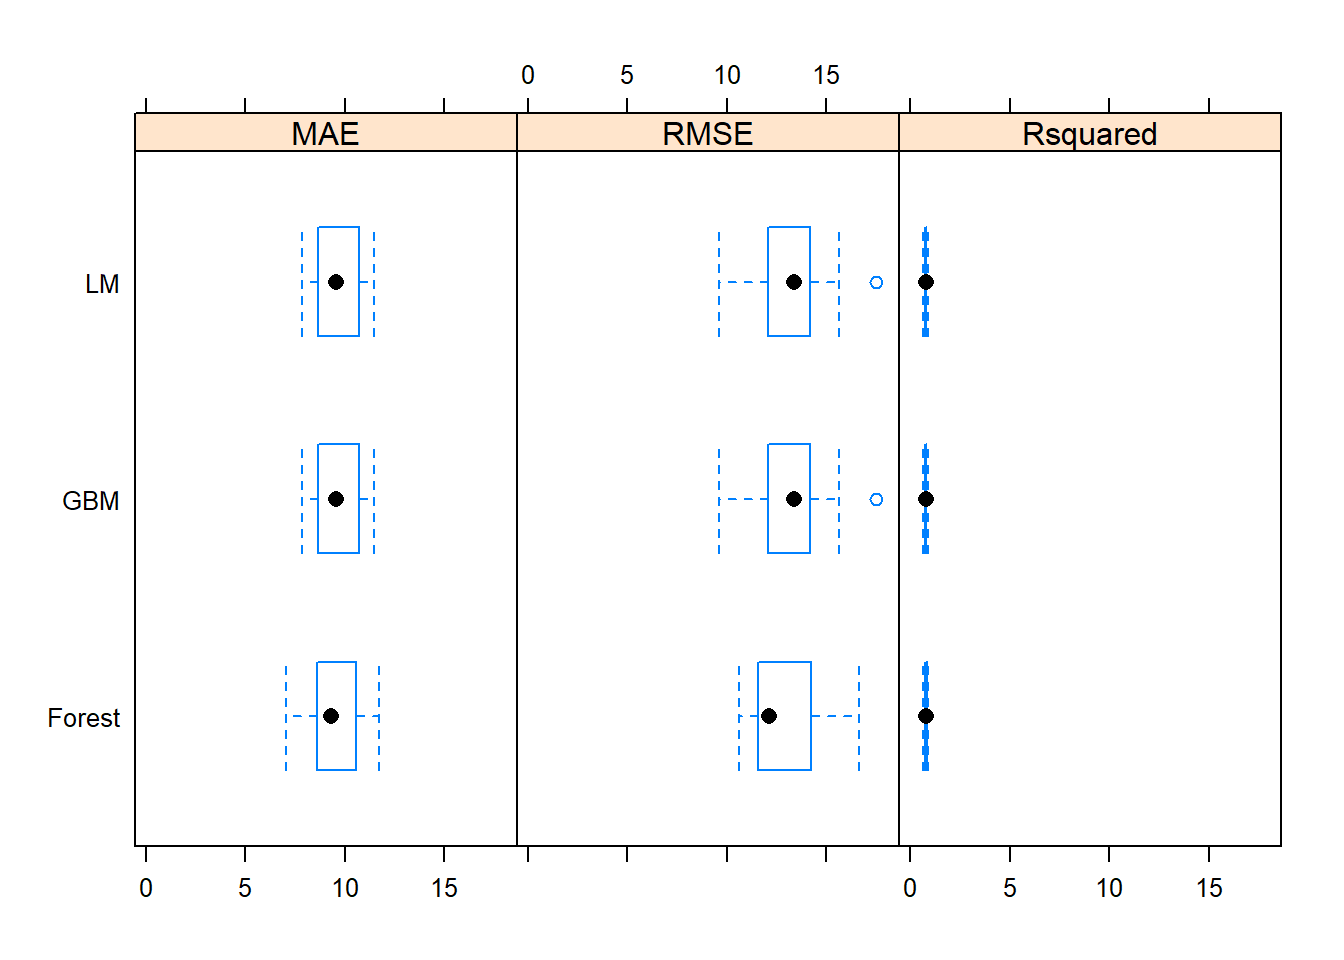
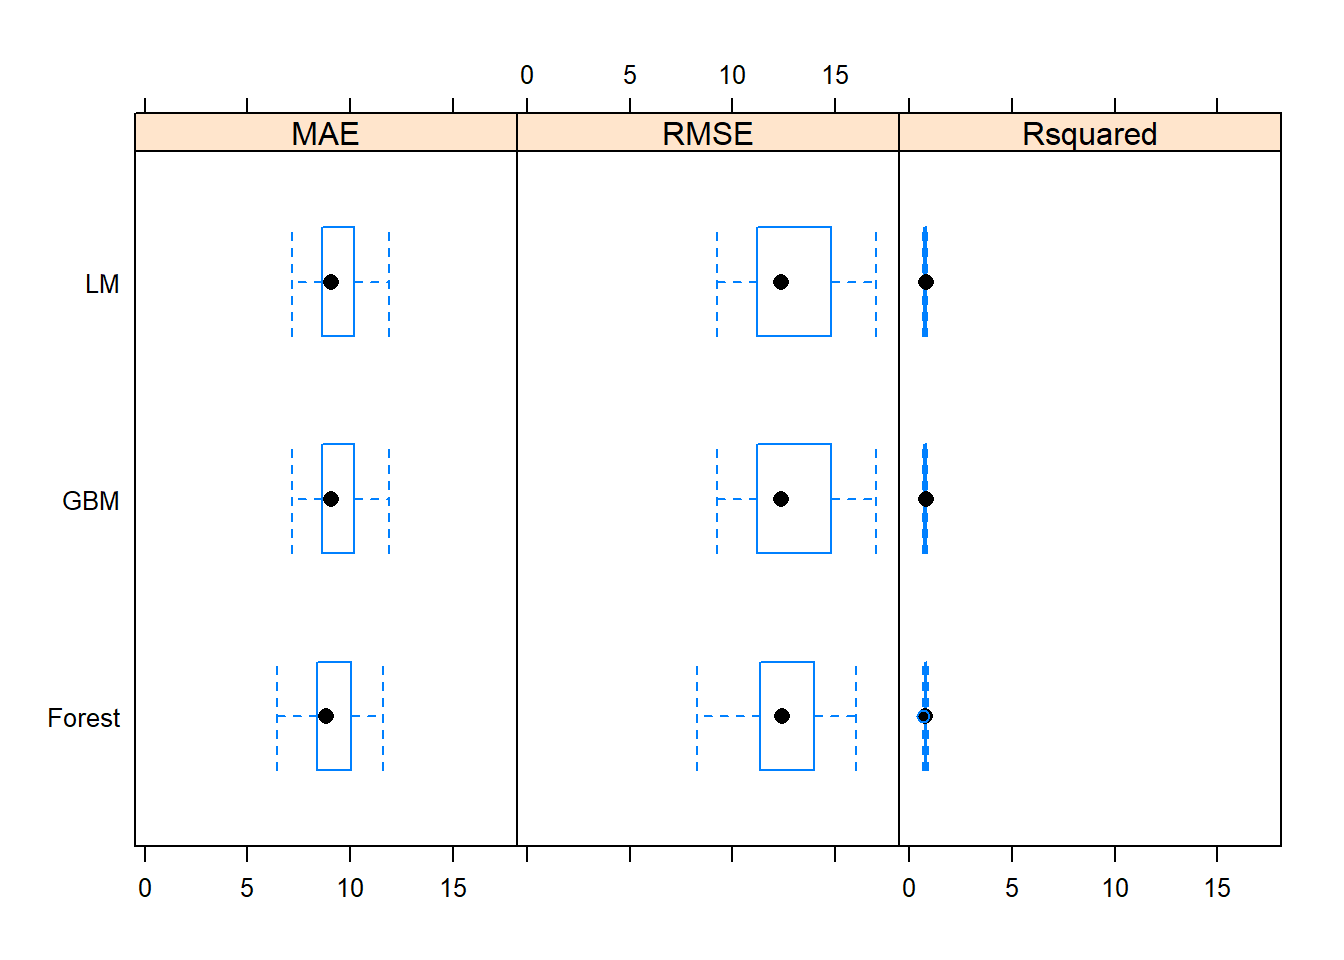
FINAL MANSION

diff --git a/public/post/ageofhouse/index.html b/public/post/ageofhouse/index.html
@@ -48,7 +48,7 @@ The data set is comprised of 506 rows and 14 columns. The variables range from c
 
 <meta itemprop="datePublished" content="2019-04-14T10:58:08-04:00" />
 <meta itemprop="dateModified" content="2019-04-14T10:58:08-04:00" />
-<meta itemprop="wordCount" content="1083">
+<meta itemprop="wordCount" content="1328">
 
 
 
@@ -216,22 +216,22 @@ bwplot(smpl)</code></pre>
 ## Number of resamples: 20 
 ## 
 ## MAE 
-##            Min.  1st Qu.   Median     Mean  3rd Qu.     Max. NA&#39;s
-## Forest 7.061932 8.608173 9.286817 9.456255 10.53941 11.71941    0
-## LM     7.871239 8.695601 9.546433 9.685783 10.69715 11.48884    0
-## GBM    7.871239 8.695601 9.546433 9.685783 10.69715 11.48884    0
+##            Min.  1st Qu.   Median     Mean   3rd Qu.     Max. NA&#39;s
+## Forest 6.414857 8.420224 8.840809 9.108707  9.981752 11.58375    0
+## LM     7.145296 8.649197 9.085303 9.337941 10.115155 11.88021    0
+## GBM    7.145296 8.649197 9.085303 9.337941 10.115155 11.88021    0
 ## 
 ## RMSE 
-##             Min.  1st Qu.   Median     Mean  3rd Qu.     Max. NA&#39;s
-## Forest 10.622008 11.63859 12.10875 12.93618 14.00339 16.65638    0
-## LM      9.613211 12.24608 13.37131 13.16942 14.17239 17.46930    0
-## GBM     9.613211 12.24608 13.37131 13.16942 14.17239 17.46930    0
+##            Min.  1st Qu.   Median     Mean  3rd Qu.     Max. NA&#39;s
+## Forest 8.287707 11.39791 12.43312 12.44734 13.85908 15.99809    0
+## LM     9.251272 11.24877 12.35774 12.80533 14.49662 16.96193    0
+## GBM    9.251272 11.24877 12.35774 12.80533 14.49662 16.96193    0
 ## 
 ## Rsquared 
 ##             Min.   1st Qu.    Median      Mean   3rd Qu.      Max. NA&#39;s
-## Forest 0.6254237 0.7392918 0.7998964 0.7850551 0.8435396 0.8949997    0
-## LM     0.6355844 0.7380345 0.7832894 0.7799452 0.8229546 0.8939904    0
-## GBM    0.6355844 0.7380345 0.7832894 0.7799452 0.8229546 0.8939904    0</code></pre>
+## Forest 0.6752715 0.7852626 0.8022922 0.8082983 0.8427229 0.9244584    0
+## LM     0.6614261 0.7472671 0.8232737 0.7978763 0.8446497 0.9013233    0
+## GBM    0.6614261 0.7472671 0.8232737 0.7978763 0.8446497 0.9013233    0</code></pre>
 <p><br></p>
 <p>We can see above that the Random Forest Model performed the best when looking at the mean RMSE. They were all really close though, which usually isn’t the case.</p>
 <p>So let’s run the models again this time using some preprocesing steps.</p>
@@ -246,8 +246,26 @@ bwplot(smpl)</code></pre>
              method = &quot;ranger&quot;,
              trControl = trainControl(method = &quot;repeatedcv&quot;,
                                       number = 10, repeats = 2),
-             preProcess = c(&quot;center&quot;, &quot;scale&quot;, &quot;pca&quot;))
-modlm &lt;- train(age ~ ., train,
+             preProcess = c(&quot;center&quot;, &quot;scale&quot;, &quot;pca&quot;))</code></pre>
+<pre><code>## Warning: model fit failed for Fold05.Rep1: mtry=10, min.node.size=5, splitrule=variance Error in ranger::ranger(dependent.variable.name = &quot;.outcome&quot;, data = x,  : 
+##   User interrupt or internal error.</code></pre>
+<pre><code>## Warning: model fit failed for Fold05.Rep1: mtry=10, min.node.size=5, splitrule=extratrees Error in ranger::ranger(dependent.variable.name = &quot;.outcome&quot;, data = x,  : 
+##   User interrupt or internal error.</code></pre>
+<pre><code>## Warning: model fit failed for Fold10.Rep1: mtry=10, min.node.size=5, splitrule=variance Error in ranger::ranger(dependent.variable.name = &quot;.outcome&quot;, data = x,  : 
+##   User interrupt or internal error.</code></pre>
+<pre><code>## Warning: model fit failed for Fold10.Rep1: mtry=10, min.node.size=5, splitrule=extratrees Error in ranger::ranger(dependent.variable.name = &quot;.outcome&quot;, data = x,  : 
+##   User interrupt or internal error.</code></pre>
+<pre><code>## Warning: model fit failed for Fold01.Rep2: mtry=10, min.node.size=5, splitrule=variance Error in ranger::ranger(dependent.variable.name = &quot;.outcome&quot;, data = x,  : 
+##   User interrupt or internal error.</code></pre>
+<pre><code>## Warning: model fit failed for Fold01.Rep2: mtry=10, min.node.size=5, splitrule=extratrees Error in ranger::ranger(dependent.variable.name = &quot;.outcome&quot;, data = x,  : 
+##   User interrupt or internal error.</code></pre>
+<pre><code>## Warning: model fit failed for Fold10.Rep2: mtry=10, min.node.size=5, splitrule=variance Error in ranger::ranger(dependent.variable.name = &quot;.outcome&quot;, data = x,  : 
+##   User interrupt or internal error.</code></pre>
+<pre><code>## Warning: model fit failed for Fold10.Rep2: mtry=10, min.node.size=5, splitrule=extratrees Error in ranger::ranger(dependent.variable.name = &quot;.outcome&quot;, data = x,  : 
+##   User interrupt or internal error.</code></pre>
+<pre><code>## Warning in nominalTrainWorkflow(x = x, y = y, wts = weights, info =
+## trainInfo, : There were missing values in resampled performance measures.</code></pre>
+<pre class="r"><code>modlm &lt;- train(age ~ ., train,
              method = &quot;lm&quot;,
              trControl = trainControl(method = &quot;repeatedcv&quot;,
                                       number = 10, repeats = 2),
@@ -274,22 +292,22 @@ bwplot(smpl)</code></pre>
 ## Number of resamples: 20 
 ## 
 ## MAE 
-##            Min.   1st Qu.    Median     Mean  3rd Qu.     Max. NA&#39;s
-## Forest 8.149287  9.115653  9.828052  9.92066 10.83526 11.97281    0
-## LM     8.318909 11.539965 12.556666 12.44978 13.53408 16.64526    0
-## GBM    7.565521  9.180614 10.142710 10.29529 11.21284 16.43143    0
+##            Min.   1st Qu.    Median      Mean  3rd Qu.     Max. NA&#39;s
+## Forest 7.680629  9.228789 10.488586 10.084051 11.06983 11.73962    4
+## LM     9.432702 11.476054 12.994335 12.606761 13.86231 14.95804    0
+## GBM    7.469150  9.417509  9.786168  9.975467 10.85735 12.45839    0
 ## 
 ## RMSE 
 ##             Min.  1st Qu.   Median     Mean  3rd Qu.     Max. NA&#39;s
-## Forest 10.603217 11.87712 13.53832 13.40123 14.41587 18.27227    0
-## LM     11.239028 14.78022 16.55303 16.23950 17.44627 21.52309    0
-## GBM     9.823987 11.61004 13.21419 13.88452 14.93168 22.96576    0
+## Forest  9.450798 11.52952 13.72013 13.22234 14.42655 17.86451    4
+## LM     12.816119 13.91797 16.41526 16.17923 18.01574 20.45931    0
+## GBM     9.676825 12.17686 12.89040 13.61001 15.20207 18.23906    0
 ## 
 ## Rsquared 
 ##             Min.   1st Qu.    Median      Mean   3rd Qu.      Max. NA&#39;s
-## Forest 0.6264813 0.7206410 0.7781562 0.7713592 0.8298419 0.8702178    0
-## LM     0.3724783 0.6168811 0.6534034 0.6585398 0.7137893 0.8341289    0
-## GBM    0.4843325 0.7055010 0.7474173 0.7512118 0.8268621 0.8570538    0</code></pre>
+## Forest 0.6067091 0.7644791 0.7952587 0.7934778 0.8287019 0.8838796    4
+## LM     0.5312258 0.6313185 0.6867887 0.6855850 0.7384793 0.8072988    0
+## GBM    0.5844936 0.7101351 0.8028564 0.7730046 0.8422553 0.8913253    0</code></pre>
 <p><br></p>
 <p>As it turns out the GBM and Forest model significantly outperformed the lm model with a mean RMSE of 12.79 compared to lm’s of 15.</p>
 <p><br></p>
@@ -306,7 +324,7 @@ error &lt;- predrf - test$age
 rmse &lt;- sqrt(mean(error^2))
 
 rmse</code></pre>
-<pre><code>## [1] 13.63614</code></pre>
+<pre><code>## [1] 13.22302</code></pre>
 <p><br></p>
 <p>The model performed slighly worst on the Test set. This is expected.</p>
 <p><br></p>
@@ -319,7 +337,7 @@ errorlm &lt;- predlm - test$age
 rmselm &lt;- sqrt(mean(errorlm^2))
 
 rmselm</code></pre>
-<pre><code>## [1] 17.5307</code></pre>
+<pre><code>## [1] 16.766</code></pre>
 <p><br></p>
 <p>lm model didn’t perform that well. But it looks like the standard is a 2 year increase in RMSE. If my assumption holds the GBM model should perfom at an RMSE of about 15.</p>
 <p><br></p>
@@ -332,9 +350,9 @@ errorgbm &lt;- predgbm - test$age
 rmsegbm &lt;- sqrt(mean(errorgbm^2))
 
 rmsegbm</code></pre>
-<pre><code>## [1] 13.16047</code></pre>
+<pre><code>## [1] 13.27098</code></pre>
 <p><br></p>
-<p>Well there’s a whole lot more we could derive from these models. We could look at the plots and the variable importance as it relates to the models, extract the coefficients from the lm model, etc.</p>
+<p>In conclusion, this method is a great way to compare multiple algorithms to see which performs best given the dataset. Of course there’s a whole lot more information we could derive from these models as the job requires. We could look at the plots and the variable importance, extract the coefficients from the lm model, etc.</p>
 <p>But for tonight – that’s it.</p>
 <p>Thank you for reading.</p>
 <p>cs</p>

diff --git a/content/post/AGEOFHOUSE.html b/content/post/AGEOFHOUSE.html
@@ -80,22 +80,22 @@ bwplot(smpl)</code></pre>
 ## Number of resamples: 20 
 ## 
 ## MAE 
-##            Min.  1st Qu.   Median     Mean  3rd Qu.     Max. NA&#39;s
-## Forest 7.061932 8.608173 9.286817 9.456255 10.53941 11.71941    0
-## LM     7.871239 8.695601 9.546433 9.685783 10.69715 11.48884    0
-## GBM    7.871239 8.695601 9.546433 9.685783 10.69715 11.48884    0
+##            Min.  1st Qu.   Median     Mean   3rd Qu.     Max. NA&#39;s
+## Forest 6.414857 8.420224 8.840809 9.108707  9.981752 11.58375    0
+## LM     7.145296 8.649197 9.085303 9.337941 10.115155 11.88021    0
+## GBM    7.145296 8.649197 9.085303 9.337941 10.115155 11.88021    0
 ## 
 ## RMSE 
-##             Min.  1st Qu.   Median     Mean  3rd Qu.     Max. NA&#39;s
-## Forest 10.622008 11.63859 12.10875 12.93618 14.00339 16.65638    0
-## LM      9.613211 12.24608 13.37131 13.16942 14.17239 17.46930    0
-## GBM     9.613211 12.24608 13.37131 13.16942 14.17239 17.46930    0
+##            Min.  1st Qu.   Median     Mean  3rd Qu.     Max. NA&#39;s
+## Forest 8.287707 11.39791 12.43312 12.44734 13.85908 15.99809    0
+## LM     9.251272 11.24877 12.35774 12.80533 14.49662 16.96193    0
+## GBM    9.251272 11.24877 12.35774 12.80533 14.49662 16.96193    0
 ## 
 ## Rsquared 
 ##             Min.   1st Qu.    Median      Mean   3rd Qu.      Max. NA&#39;s
-## Forest 0.6254237 0.7392918 0.7998964 0.7850551 0.8435396 0.8949997    0
-## LM     0.6355844 0.7380345 0.7832894 0.7799452 0.8229546 0.8939904    0
-## GBM    0.6355844 0.7380345 0.7832894 0.7799452 0.8229546 0.8939904    0</code></pre>
+## Forest 0.6752715 0.7852626 0.8022922 0.8082983 0.8427229 0.9244584    0
+## LM     0.6614261 0.7472671 0.8232737 0.7978763 0.8446497 0.9013233    0
+## GBM    0.6614261 0.7472671 0.8232737 0.7978763 0.8446497 0.9013233    0</code></pre>
 <p><br></p>
 <p>We can see above that the Random Forest Model performed the best when looking at the mean RMSE. They were all really close though, which usually isn’t the case.</p>
 <p>So let’s run the models again this time using some preprocesing steps.</p>
@@ -110,8 +110,26 @@ bwplot(smpl)</code></pre>
              method = &quot;ranger&quot;,
              trControl = trainControl(method = &quot;repeatedcv&quot;,
                                       number = 10, repeats = 2),
-             preProcess = c(&quot;center&quot;, &quot;scale&quot;, &quot;pca&quot;))
-modlm &lt;- train(age ~ ., train,
+             preProcess = c(&quot;center&quot;, &quot;scale&quot;, &quot;pca&quot;))</code></pre>
+<pre><code>## Warning: model fit failed for Fold05.Rep1: mtry=10, min.node.size=5, splitrule=variance Error in ranger::ranger(dependent.variable.name = &quot;.outcome&quot;, data = x,  : 
+##   User interrupt or internal error.</code></pre>
+<pre><code>## Warning: model fit failed for Fold05.Rep1: mtry=10, min.node.size=5, splitrule=extratrees Error in ranger::ranger(dependent.variable.name = &quot;.outcome&quot;, data = x,  : 
+##   User interrupt or internal error.</code></pre>
+<pre><code>## Warning: model fit failed for Fold10.Rep1: mtry=10, min.node.size=5, splitrule=variance Error in ranger::ranger(dependent.variable.name = &quot;.outcome&quot;, data = x,  : 
+##   User interrupt or internal error.</code></pre>
+<pre><code>## Warning: model fit failed for Fold10.Rep1: mtry=10, min.node.size=5, splitrule=extratrees Error in ranger::ranger(dependent.variable.name = &quot;.outcome&quot;, data = x,  : 
+##   User interrupt or internal error.</code></pre>
+<pre><code>## Warning: model fit failed for Fold01.Rep2: mtry=10, min.node.size=5, splitrule=variance Error in ranger::ranger(dependent.variable.name = &quot;.outcome&quot;, data = x,  : 
+##   User interrupt or internal error.</code></pre>
+<pre><code>## Warning: model fit failed for Fold01.Rep2: mtry=10, min.node.size=5, splitrule=extratrees Error in ranger::ranger(dependent.variable.name = &quot;.outcome&quot;, data = x,  : 
+##   User interrupt or internal error.</code></pre>
+<pre><code>## Warning: model fit failed for Fold10.Rep2: mtry=10, min.node.size=5, splitrule=variance Error in ranger::ranger(dependent.variable.name = &quot;.outcome&quot;, data = x,  : 
+##   User interrupt or internal error.</code></pre>
+<pre><code>## Warning: model fit failed for Fold10.Rep2: mtry=10, min.node.size=5, splitrule=extratrees Error in ranger::ranger(dependent.variable.name = &quot;.outcome&quot;, data = x,  : 
+##   User interrupt or internal error.</code></pre>
+<pre><code>## Warning in nominalTrainWorkflow(x = x, y = y, wts = weights, info =
+## trainInfo, : There were missing values in resampled performance measures.</code></pre>
+<pre class="r"><code>modlm &lt;- train(age ~ ., train,
              method = &quot;lm&quot;,
              trControl = trainControl(method = &quot;repeatedcv&quot;,
                                       number = 10, repeats = 2),
@@ -138,22 +156,22 @@ bwplot(smpl)</code></pre>
 ## Number of resamples: 20 
 ## 
 ## MAE 
-##            Min.   1st Qu.    Median     Mean  3rd Qu.     Max. NA&#39;s
-## Forest 8.149287  9.115653  9.828052  9.92066 10.83526 11.97281    0
-## LM     8.318909 11.539965 12.556666 12.44978 13.53408 16.64526    0
-## GBM    7.565521  9.180614 10.142710 10.29529 11.21284 16.43143    0
+##            Min.   1st Qu.    Median      Mean  3rd Qu.     Max. NA&#39;s
+## Forest 7.680629  9.228789 10.488586 10.084051 11.06983 11.73962    4
+## LM     9.432702 11.476054 12.994335 12.606761 13.86231 14.95804    0
+## GBM    7.469150  9.417509  9.786168  9.975467 10.85735 12.45839    0
 ## 
 ## RMSE 
 ##             Min.  1st Qu.   Median     Mean  3rd Qu.     Max. NA&#39;s
-## Forest 10.603217 11.87712 13.53832 13.40123 14.41587 18.27227    0
-## LM     11.239028 14.78022 16.55303 16.23950 17.44627 21.52309    0
-## GBM     9.823987 11.61004 13.21419 13.88452 14.93168 22.96576    0
+## Forest  9.450798 11.52952 13.72013 13.22234 14.42655 17.86451    4
+## LM     12.816119 13.91797 16.41526 16.17923 18.01574 20.45931    0
+## GBM     9.676825 12.17686 12.89040 13.61001 15.20207 18.23906    0
 ## 
 ## Rsquared 
 ##             Min.   1st Qu.    Median      Mean   3rd Qu.      Max. NA&#39;s
-## Forest 0.6264813 0.7206410 0.7781562 0.7713592 0.8298419 0.8702178    0
-## LM     0.3724783 0.6168811 0.6534034 0.6585398 0.7137893 0.8341289    0
-## GBM    0.4843325 0.7055010 0.7474173 0.7512118 0.8268621 0.8570538    0</code></pre>
+## Forest 0.6067091 0.7644791 0.7952587 0.7934778 0.8287019 0.8838796    4
+## LM     0.5312258 0.6313185 0.6867887 0.6855850 0.7384793 0.8072988    0
+## GBM    0.5844936 0.7101351 0.8028564 0.7730046 0.8422553 0.8913253    0</code></pre>
 <p><br></p>
 <p>As it turns out the GBM and Forest model significantly outperformed the lm model with a mean RMSE of 12.79 compared to lm’s of 15.</p>
 <p><br></p>
@@ -170,7 +188,7 @@ error &lt;- predrf - test$age
 rmse &lt;- sqrt(mean(error^2))
 
 rmse</code></pre>
-<pre><code>## [1] 13.63614</code></pre>
+<pre><code>## [1] 13.22302</code></pre>
 <p><br></p>
 <p>The model performed slighly worst on the Test set. This is expected.</p>
 <p><br></p>
@@ -183,7 +201,7 @@ errorlm &lt;- predlm - test$age
 rmselm &lt;- sqrt(mean(errorlm^2))
 
 rmselm</code></pre>
-<pre><code>## [1] 17.5307</code></pre>
+<pre><code>## [1] 16.766</code></pre>
 <p><br></p>
 <p>lm model didn’t perform that well. But it looks like the standard is a 2 year increase in RMSE. If my assumption holds the GBM model should perfom at an RMSE of about 15.</p>
 <p><br></p>
@@ -196,9 +214,9 @@ errorgbm &lt;- predgbm - test$age
 rmsegbm &lt;- sqrt(mean(errorgbm^2))
 
 rmsegbm</code></pre>
-<pre><code>## [1] 13.16047</code></pre>
+<pre><code>## [1] 13.27098</code></pre>
 <p><br></p>
-<p>Well there’s a whole lot more we could derive from these models. We could look at the plots and the variable importance as it relates to the models, extract the coefficients from the lm model, etc.</p>
+<p>In conclusion, this method is a great way to compare multiple algorithms to see which performs best given the dataset. Of course there’s a whole lot more information we could derive from these models as the job requires. We could look at the plots and the variable importance, extract the coefficients from the lm model, etc.</p>
 <p>But for tonight – that’s it.</p>
 <p>Thank you for reading.</p>
 <p>cs</p>

diff --git a/public/post/Keras_CTG/script/index.html b/public/post/Keras_CTG/script/index.html
@@ -391,11 +391,11 @@ head(tbl, 10)</code></pre>
     <ul class="pa0 list">
 	   
 	     <li  class="mb2">
-          <a href="/post/randomforest/rfscript/">Complete Review of the Random Forest Package</a>
+          <a href="/post/glmnet/glmnet/">What?  Hypertune Using glmnet and Caret by Max Kuhn?  Pass it along.</a>
         </li>
 	    
 	     <li  class="mb2">
-          <a href="/post/glmnet/glmnet/">What?  Hypertune Using glmnet and Caret by Max Kuhn?  Pass it along.</a>
+          <a href="/post/randomforest/rfscript/">Complete Review of the Random Forest Package</a>
         </li>
 	    
 	     <li  class="mb2">
@@ -407,11 +407,11 @@ head(tbl, 10)</code></pre>
         </li>
 	    
 	     <li  class="mb2">
-          <a href="/post/kmeans/kmeans/">Can the k means algorithm correctly identify a flower by its petal length and width alone?</a>
+          <a href="/post/weather_post/mkdown/">How many sunny days are followed by cloudy days in Seattle on any given year?</a>
         </li>
 	    
 	     <li  class="mb2">
-          <a href="/post/weather_post/mkdown/">How many sunny days are followed by cloudy days in Seattle on any given year?</a>
+          <a href="/post/kmeans/kmeans/">Can the k means algorithm correctly identify a flower by its petal length and width alone?</a>
         </li>
 	    
 	     <li  class="mb2">

diff --git a/public/post/ROC/roc/index.html b/public/post/ROC/roc/index.html
@@ -312,11 +312,11 @@ model2</code></pre>
     <ul class="pa0 list">
 	   
 	     <li  class="mb2">
-          <a href="/post/randomforest/rfscript/">Complete Review of the Random Forest Package</a>
+          <a href="/post/glmnet/glmnet/">What?  Hypertune Using glmnet and Caret by Max Kuhn?  Pass it along.</a>
         </li>
 	    
 	     <li  class="mb2">
-          <a href="/post/glmnet/glmnet/">What?  Hypertune Using glmnet and Caret by Max Kuhn?  Pass it along.</a>
+          <a href="/post/randomforest/rfscript/">Complete Review of the Random Forest Package</a>
         </li>
 	    
 	     <li  class="mb2">
@@ -324,11 +324,11 @@ model2</code></pre>
         </li>
 	    
 	     <li  class="mb2">
-          <a href="/post/kmeans/kmeans/">Can the k means algorithm correctly identify a flower by its petal length and width alone?</a>
+          <a href="/post/weather_post/mkdown/">How many sunny days are followed by cloudy days in Seattle on any given year?</a>
         </li>
 	    
 	     <li  class="mb2">
-          <a href="/post/weather_post/mkdown/">How many sunny days are followed by cloudy days in Seattle on any given year?</a>
+          <a href="/post/kmeans/kmeans/">Can the k means algorithm correctly identify a flower by its petal length and width alone?</a>
         </li>
 	    
 	     <li  class="mb2">

diff --git a/public/post/Eno_Hammock/test/index.html b/public/post/Eno_Hammock/test/index.html
@@ -435,11 +435,11 @@ wordcloud(sort_two2$bitoken2, sort_two2$Freq, random.order = F, scale = c(2,0.35
     <ul class="pa0 list">
 	   
 	     <li  class="mb2">
-          <a href="/post/cloudy_nights/cloudy_nights_scrape/">Analytics on Classified Section of Cloudy Nights (5,546 ads)</a>
+          <a href="/post/easter_sermon/tim/">Easter Sermon Sentiment Analysis</a>
         </li>
 	    
 	     <li  class="mb2">
-          <a href="/post/easter_sermon/tim/">Easter Sermon Sentiment Analysis</a>
+          <a href="/post/cloudy_nights/cloudy_nights_scrape/">Analytics on Classified Section of Cloudy Nights (5,546 ads)</a>
         </li>
 	    
 	     <li  class="mb2">

diff --git a/public/post/Diamonds_df/diamonds_cut/index.html b/public/post/Diamonds_df/diamonds_cut/index.html
@@ -306,11 +306,11 @@ confusionMatrix(pred, datatest$binary)</code></pre>
         </li>
 	    
 	     <li  class="mb2">
-          <a href="/post/glmnet/glmnet/">What?  Hypertune Using glmnet and Caret by Max Kuhn?  Pass it along.</a>
+          <a href="/post/randomforest/rfscript/">Complete Review of the Random Forest Package</a>
         </li>
 	    
 	     <li  class="mb2">
-          <a href="/post/randomforest/rfscript/">Complete Review of the Random Forest Package</a>
+          <a href="/post/glmnet/glmnet/">What?  Hypertune Using glmnet and Caret by Max Kuhn?  Pass it along.</a>
         </li>
 	    
 	     <li  class="mb2">

diff --git a/public/post/mnist/script/index.html b/public/post/mnist/script/index.html
@@ -351,11 +351,11 @@ sum(predictions != actual)</code></pre>
     <ul class="pa0 list">
 	   
 	     <li  class="mb2">
-          <a href="/post/glmnet/glmnet/">What?  Hypertune Using glmnet and Caret by Max Kuhn?  Pass it along.</a>
+          <a href="/post/randomforest/rfscript/">Complete Review of the Random Forest Package</a>
         </li>
 	    
 	     <li  class="mb2">
-          <a href="/post/randomforest/rfscript/">Complete Review of the Random Forest Package</a>
+          <a href="/post/glmnet/glmnet/">What?  Hypertune Using glmnet and Caret by Max Kuhn?  Pass it along.</a>
         </li>
 	    
 	     <li  class="mb2">

diff --git a/public/post/PCI/pci_analysis/index.html b/public/post/PCI/pci_analysis/index.html
@@ -451,11 +451,11 @@ tab1</code></pre>
         </li>
 	    
 	     <li  class="mb2">
-          <a href="/post/glmnet/glmnet/">What?  Hypertune Using glmnet and Caret by Max Kuhn?  Pass it along.</a>
+          <a href="/post/randomforest/rfscript/">Complete Review of the Random Forest Package</a>
         </li>
 	    
 	     <li  class="mb2">
-          <a href="/post/randomforest/rfscript/">Complete Review of the Random Forest Package</a>
+          <a href="/post/glmnet/glmnet/">What?  Hypertune Using glmnet and Caret by Max Kuhn?  Pass it along.</a>
         </li>
 	    
 	     <li  class="mb2">

diff --git a/public/post/naivebayes/naivebayes/index.html b/public/post/naivebayes/naivebayes/index.html
@@ -436,11 +436,11 @@ rf</code></pre>
         </li>
 	    
 	     <li  class="mb2">
-          <a href="/post/randomforest/rfscript/">Complete Review of the Random Forest Package</a>
+          <a href="/post/glmnet/glmnet/">What?  Hypertune Using glmnet and Caret by Max Kuhn?  Pass it along.</a>
         </li>
 	    
 	     <li  class="mb2">
-          <a href="/post/glmnet/glmnet/">What?  Hypertune Using glmnet and Caret by Max Kuhn?  Pass it along.</a>
+          <a href="/post/randomforest/rfscript/">Complete Review of the Random Forest Package</a>
         </li>
 	    
 	     <li  class="mb2">
